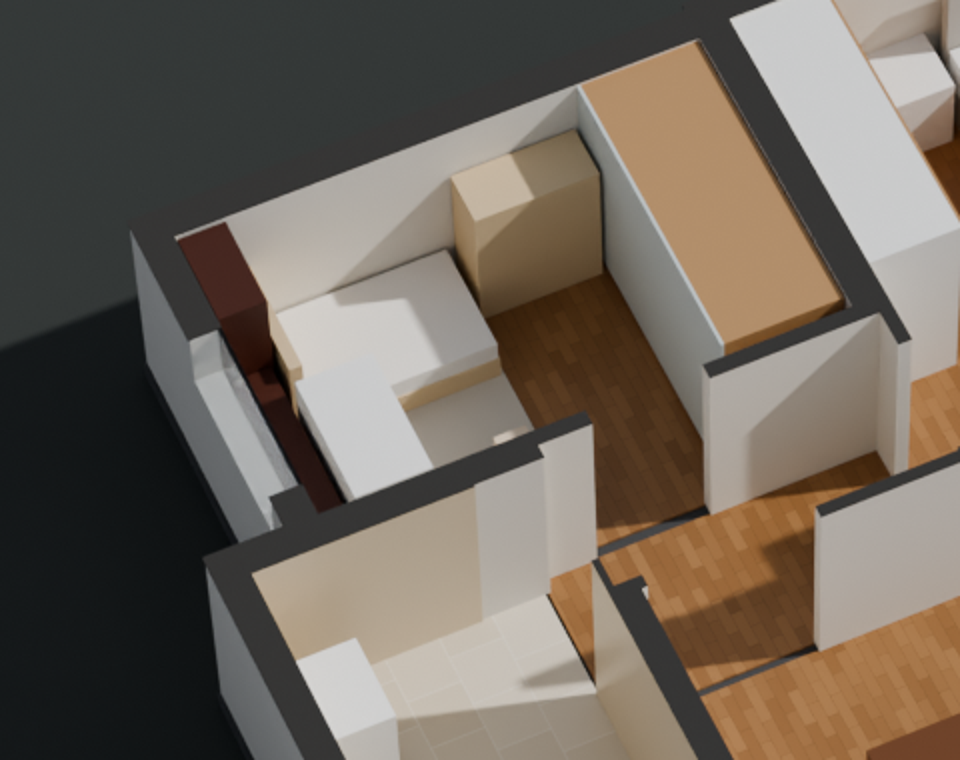
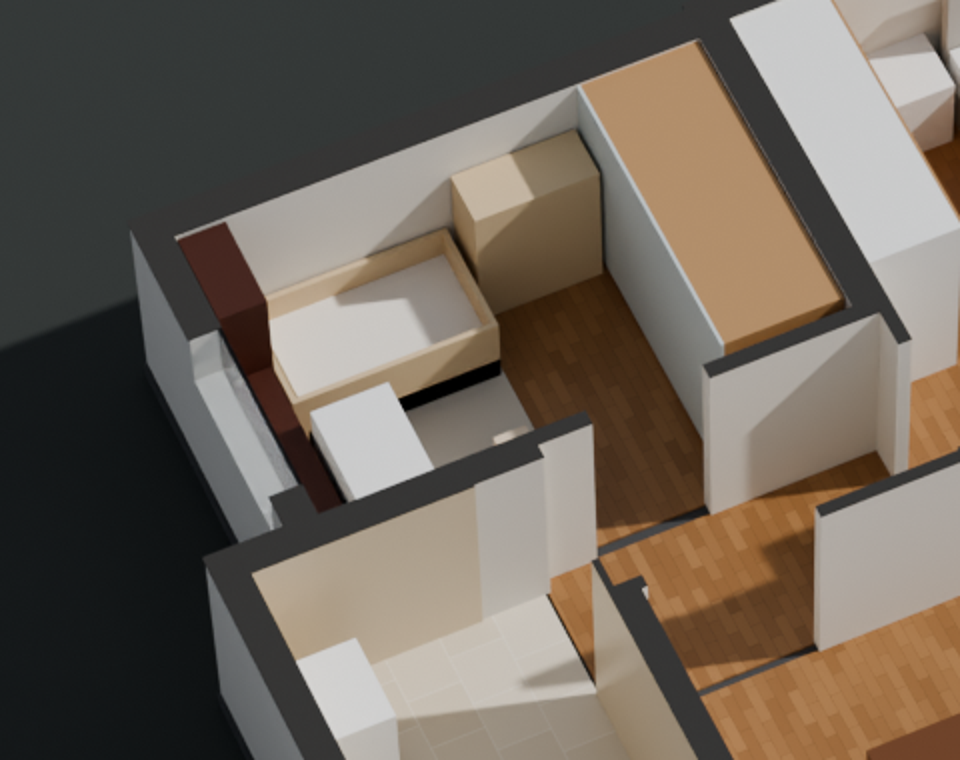
Dormitorio 2: cambiador separado de la cama y cama Montessori con barandilla
Opción --inclinacion en modelo.py para renders en planta de comprobación.

Claude-Session: https://claude.ai/code/session_016TCv93ycWkP81JCtPPZEuX

Changed region(s): [[0.25, 0.2724, 0.5312, 0.575], [0.375, 0.6355, 0.4062, 0.6658]]

diff --git a/casa/modelo.py b/casa/modelo.py
@@ -20,6 +20,7 @@ ap.add_argument('--blend'); ap.add_argument('--muestras', type=int, default=48)
 ap.add_argument('--corte', type=float, default=1.40)
 ap.add_argument('--res', default='1600x1200')
 ap.add_argument('--sol', default='200,40', help='azimut,elevación del sol (grados)')
+ap.add_argument('--inclinacion', type=float, default=None, help='grados desde la vertical (0 = planta); por defecto el de layout.json')
 ap.add_argument('--camara', type=float, default=None,
                 help='lado de la cámara: ángulo en el plano (0 = oeste, 90 = sur); por defecto el de layout.json')
 a = ap.parse_args()
@@ -156,7 +157,13 @@ def mueble(i, mb):
         cab = mb.get('cabecero', 'x-'); resto = b.difference(lado(b, cab, 0.08))
         extruir(resto, 0, alto * 0.55, n + '_base', col2)
         extruir(resto.buffer(-0.01, join_style=2), alto * 0.55, alto, n + '_colchon', col)
-        extruir(lado(b, cab, 0.08), 0, min(alto + 0.55, CORTE - 0.02), n + '_cabecero', col2)
+        if mb.get('barandilla'):  # cama Montessori: marco de madera con barandilla y hueco para subir
+            aro = b.difference(b.buffer(-0.035, join_style=2))
+            x0b, y0b, x1b, y1b = b.bounds; lar = max(x1b - x0b, y1b - y0b)
+            hueco = b.centroid.buffer(lar * 0.22, cap_style=3).intersection(lado(b, 'x+', 0.05))
+            extruir(aro.difference(hueco), 0, alto + 0.2, n + '_barandilla', col2)
+        else:
+            extruir(lado(b, cab, 0.08), 0, min(alto + 0.55, CORTE - 0.02), n + '_cabecero', col2)
     elif t == 'sofa':  # asiento + respaldo + brazos
         r = mb.get('respaldo', 'x+'); x0b, y0b, x1b, y1b = b.bounds
         brazos = ('y-', 'y+') if r[0] == 'x' else ('x-', 'x+')
@@ -216,7 +223,7 @@ w.node_tree.nodes['Background'].inputs['Strength'].default_value = 0.45
 # ---------- cámara de diorama: 30° desde la vertical, girada 25° ----------
 minx, miny, maxx, maxy = huella.bounds
 c = Vector(((minx + maxx) / 2, (miny + maxy) / 2, 0.3))
-t = math.radians(L.get('camara', {}).get('inclinacion_desde_vertical', 30))
+t = math.radians(a.inclinacion if a.inclinacion is not None else L.get('camara', {}).get('inclinacion_desde_vertical', 30))
 r = math.radians(a.camara if a.camara is not None else L.get('camara', {}).get('lado', -25))
 hdir = Vector((math.cos(r), math.sin(r), 0))  # -25 = desde el oeste; 65 = desde el sur (ventanal abajo)
 cam = bpy.data.cameras.new('cam'); cam.lens = 85; co = bpy.data.objects.new('cam', cam); sc.collection.objects.link(co)
